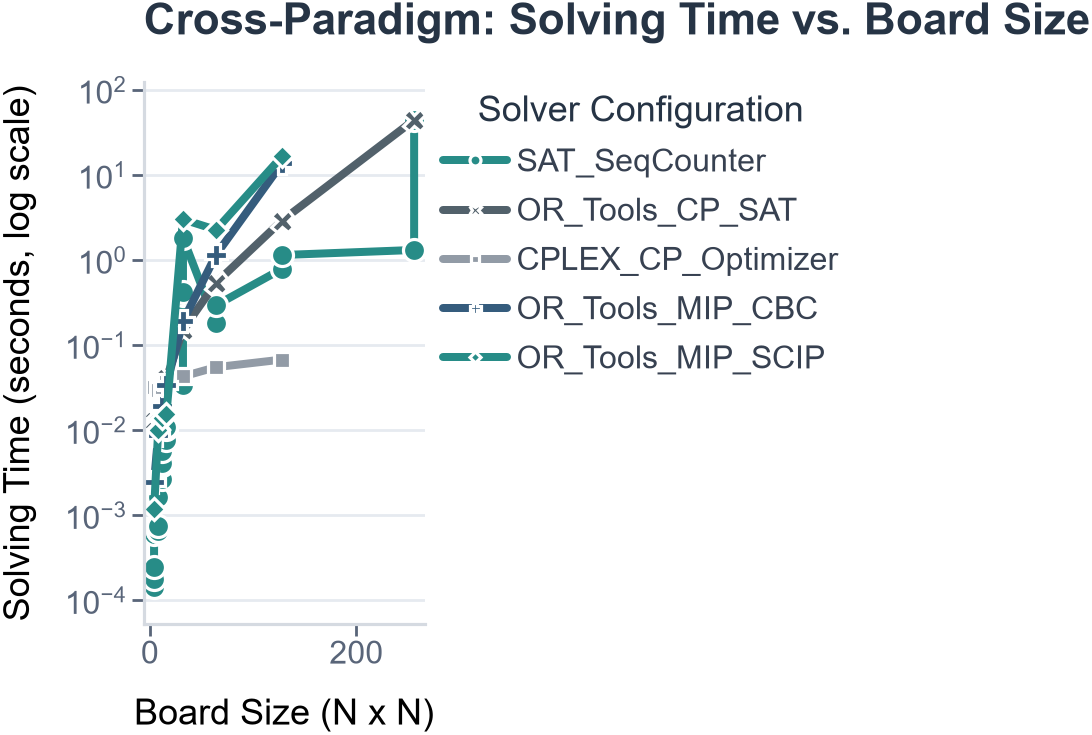
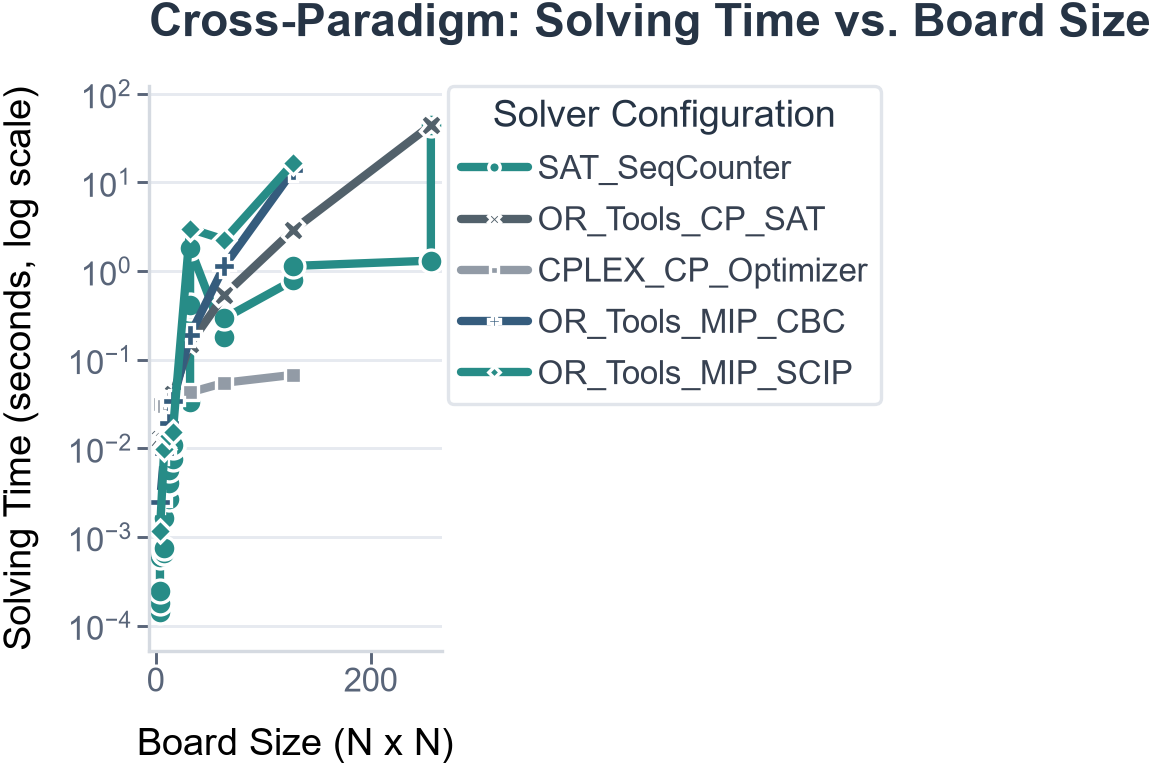
Standardize opaque white background and legend styling for clean scientific presentation across light/dark themes

diff --git a/scripts/plot_results.py b/scripts/plot_results.py
@@ -187,7 +187,10 @@ def configure_legend(ax, title, outside=False):
             loc="upper left",
             bbox_to_anchor=(1.02, 1),
             borderaxespad=0,
-            frameon=False,
+            frameon=True,
+            facecolor="#FFFFFF",
+            edgecolor="#E1E5EB",
+            framealpha=1.0,  # Màu nền trắng đặc 100% không trong suốt
             fontsize=8,
             title_fontsize=9,
             handlelength=2.0,
@@ -200,7 +203,7 @@ def configure_legend(ax, title, outside=False):
             frameon=True,
             facecolor="#FFFFFF",
             edgecolor="#E1E5EB",
-            framealpha=0.95,
+            framealpha=1.0,  # Màu nền trắng đặc 100% không trong suốt
             fontsize=8,
             title_fontsize=9,
             borderpad=0.7,
@@ -270,6 +273,11 @@ def plot_line_comparison(
     # Create CNSPlots figure
     cns.figure(300, 200, color_cycle="ECharts")
     ax = plt.gca()
+    
+    # Ép buộc đồng bộ màu trắng đặc 100% cho hình vẽ và khung trục tọa độ
+    fig = plt.gcf()
+    fig.patch.set_facecolor("#FFFFFF")
+    ax.set_facecolor("#FFFFFF")
 
     sns.lineplot(
         ax=ax,
@@ -306,12 +314,19 @@ def plot_line_comparison(
 
     # Reserve space for an external legend
     if legend_outside:
-        plt.tight_layout(rect=[0, 0, 0.78, 1])
+        plt.tight_layout(rect=(0, 0, 0.78, 1))
     else:
         plt.tight_layout()
 
-    # Save through CNSPlots
-    cns.save(output_path)
+    # Lưu chất lượng cao với phông nền trắng đặc tuyệt đối, tránh hiện tượng bị cắt legend
+    plt.savefig(
+        output_path,
+        dpi=300,
+        facecolor="#FFFFFF",
+        edgecolor="none",
+        transparent=False,
+        bbox_inches="tight"
+    )
     plt.close()
 
     print(f" -> Exported: {output_path}")
